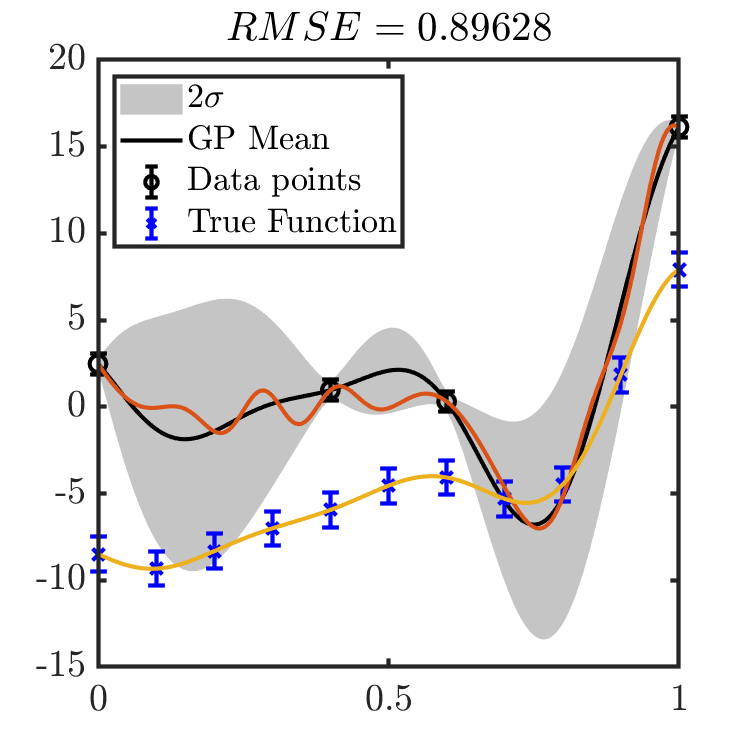
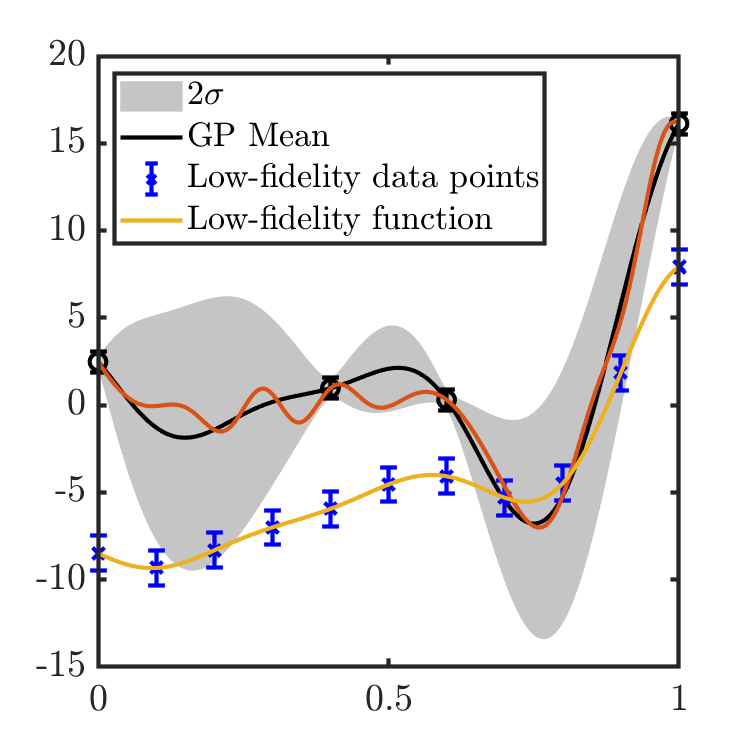
update sf_vs_hf plots

diff --git a/code/image_gen/gp_analytical/plot_sf_vs_mf.m b/code/image_gen/gp_analytical/plot_sf_vs_mf.m
@@ -54,16 +54,17 @@ gp = gp.Process();
 % gp.plot_input_data();
 figure(4); clf;
 gp.plot_GP_1D_slice(x_samp,x_samp)
-errorbar(X_HF,Y_HF,2.*sig_HF,'ko','MarkerSize',msz,'LineWidth',lw,'capsize',8)
+errorbar(X_HF,Y_HF,2.*sig_HF,'ko','MarkerSize',msz,'LineWidth',lw,'capsize',8,'HandleVisibility','off')
 hold on
 errorbar(X_LF,Y_LF,2.*sig_LF,'bx','MarkerSize',msz,'LineWidth',lw,'capsize',8)
 
-plot(x_samp,y_hf_func(x_samp))
+plot(x_samp,y_hf_func(x_samp),'HandleVisibility','off')
 plot(x_samp,y_lf_func(x_samp))
 [y_samp,~] = gp.Query(x_samp);
 rmse = sum((y_samp-y_hf_func(x_samp)).^2)/n_samp;
-title(sprintf('$RMSE =%.5f$',rmse));
-legend('$2\sigma$','GP Mean','Data points','True Function','location','northwest')
+% title(sprintf('$RMSE =%.5f$',rmse));
+legend('$2\sigma$','GP Mean','Low-fidelity data points','Low-fidelity function','location','northwest')
+
 saveas(gcf,sprintf('images/mf_%i_noise.png',n_hf))
 
 gp = MF_GP;
